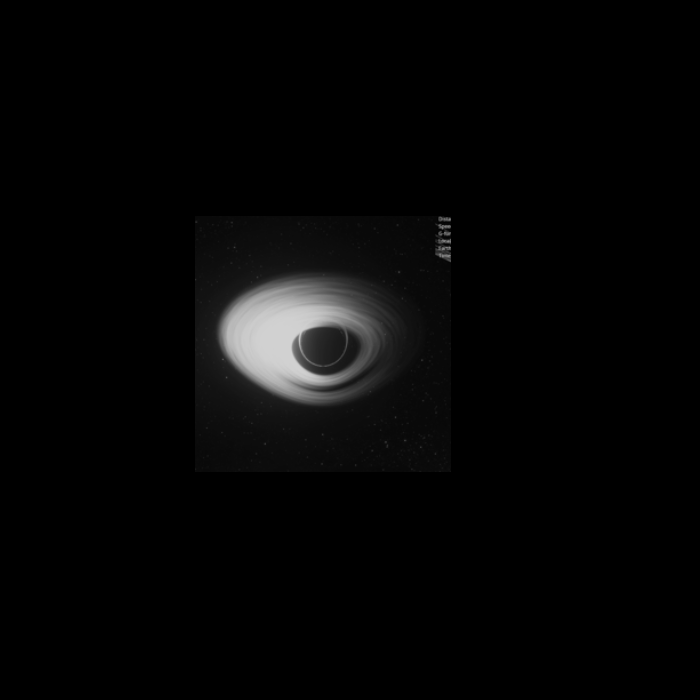
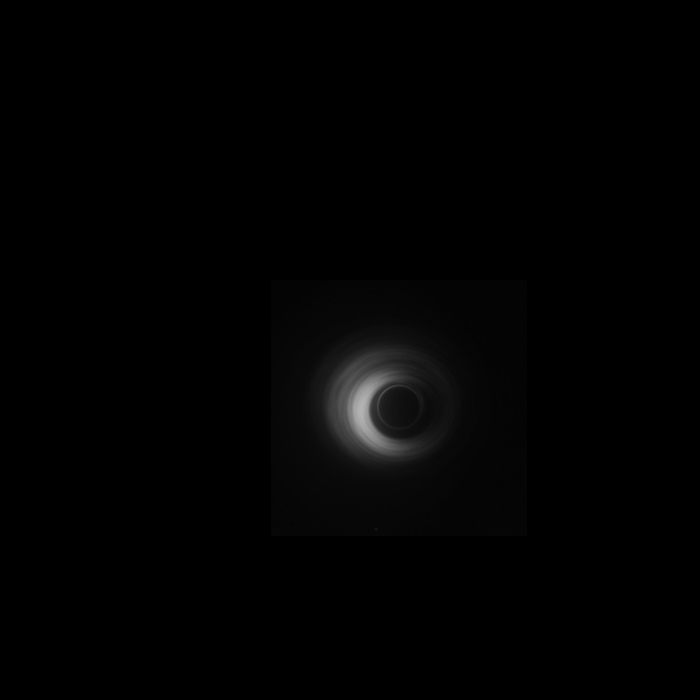
add

Changed region(s): [[0.27, 0.39, 0.6, 0.66], [0.6, 0.3, 0.66, 0.39]]

diff --git a/stars.py b/stars.py
@@ -160,8 +160,13 @@ class BH_stars_img():
             
         for index, path in enumerate(self.BHs):
             # print(self.BHs_path + path)
-            BHimg = cv2.imread(self.BHs_path + path)
-            BHimg = cv2.cvtColor(BHimg, cv2.COLOR_BGR2GRAY)
+            if type(path) == str:
+                BHimg = cv2.imread(self.BHs_path + path)
+                BHimg = cv2.cvtColor(BHimg, cv2.COLOR_BGR2GRAY)
+            elif type(path) == np.ndarray:
+                BHimg = path
+            else:
+                raise ValueError
             BH_size = np.random.randint(low=self.BHS_lower_size, high=self.BH_upper_size)
             BHimg_small = cv2.resize(BHimg, (BH_size, BH_size))
             BHimg_small = BHimg_small.astype(np.float64)
@@ -239,7 +244,9 @@ class BH_stars_img():
 
 
 if __name__ == '__main__':
-    img = BH_stars_img(BHs_path='tele_datasets/224/', num_stars=0, num_BHs=1, stars_lower_size=25, stars_upper_size=35,
+
+    img_arr = cv2.imread('tele_datasets/224/20240108150459_4eae584618014ddca128ea99277295e2.png', 0)
+    img = BH_stars_img(BHs_path='tele_datasets/224/', BHs=img_arr, num_stars=0, num_BHs=1, stars_lower_size=25, stars_upper_size=35,
                        BHS_lower_size=256, BH_upper_size=257, height=700, width=700, bg_color=0, shape='rect')
     img.stars_gen()
     img.save('stars/stars.png')
